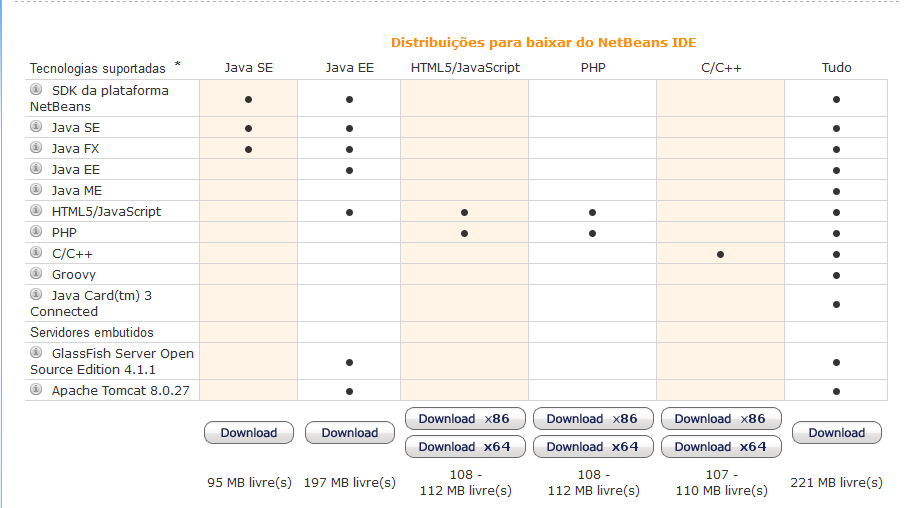
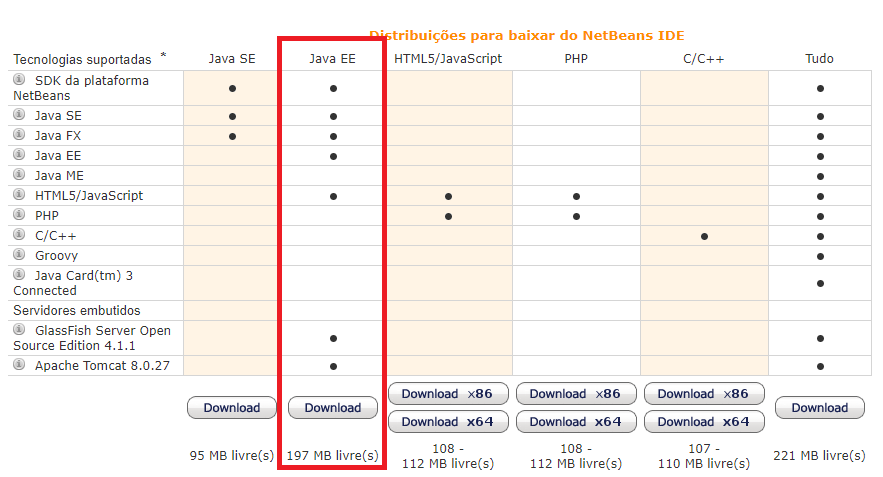
iniciando tutorial de instalacao e configuracao

Changed region(s): [[0.0, 0.0587, 0.9785, 0.9979]]

diff --git a/tutorial/README.md b/tutorial/README.md
@@ -1,0 +1,62 @@
+# Para Dhara
+https://commonmark.org/help/
+
+# Instalação das ferramentas
+
+### Instalando o JDK
+
+1. Acesse a [página de dowloads do JDK](http://www.oracle.com/technetwork/pt/java/javase/downloads/jdk8-downloads-2133151.html)
+1. Encontre a versão **Java SE Development Kit 8u181**
+1. Leia e aceite os termos de uso
+1. Faça o download do JDK de acordo com seu sistema operacional
+    ![download](img/jdkdownload.png)
+1. Ao terminar o download, execute o arquivo baixado
+1. No instalador, clique em __Próximo (next)__ até finalizar a instalação. Leia os termos e aceite caso apareça algum
+1. Faça agora a instalação do NetBeans
+
+### Instalando o NetBeans
+
+1. Acesse a [página de donwloads do NetBeans](https://netbeans.org/downloads/)
+1. Faça o donwload da versão Java EE
+    ![Donwload Java EE](img/download.png)
+1. Ao terminar o download, execute o arquivo baixado
+1. No instalador, marque a opção de servidor **Apache Tomcat 8.0.27** e desmarque a outra. Clique em __Próximo (next)__
+1. Leia e aceite os termos de uso
+1. Aceite a pasta padrão de instalação do NetBeans e **verifique se o caminho do JDK
+está correto**, caso contrário, especifique-o. Clique em __Próximo (next)__ até finalizar a instalação
+    ![Caminho de instalação do JDK](img/jdkpath.png)
+1. Ao fim, clique em __Finalizar (Finish)__
+
+### Instalação do PostgreSQL
+
+1. Acesse a [página de dowloads do PostgreSQL](https://www.enterprisedb.com/downloads/postgres-postgresql-downloads)
+1. Selecione a **versão 9.5.14** e seu sistema operacional, de acordo com a imagem abaixo
+    ![Download PostgreSQL](img/postgresinstall.png)
+1. Ao terminar o download, execute o arquivo baixado
+1. No instalador, clique em __Próximo (next)__ até chegar em **Password**
+1. Insira a senha **admin** que será utilizado no **PostgreSQL** e clique em __Próximo (next)__
+    ![Donwload Java EE](img/pswpostgres.png)
+
+    **Obs.: GUARDE E MEMORIZE A SENHA pois será requisitada diversas vezes ao longo do curso.**
+1. Na próxima etapa (Port), deixe a **porta padrão 5423** e clique em __Próximo (next)__
+1. Na próxima etapa (Advanced Options), selecione o __Locale__  para **Portuguese, Brazil**
+![Locale PostgreSQL](img/localepg.png)
+1. Clique em __Próximo (next)__ até iniciar a instalação e aguarde.
+1. Ao completar a instalação **desmarque a opção Launch Stack Builder at exit**
+1. Por fim, clique em __Finalizar (Finish)__
+
+# Configurando o PostgreSQL
+
+1. Ao instalar o PostgreSQL, o SGBD **pgAdmin III** é instalado também. Encontre o programa no menu iniciar e execute-o.
+1. Ao abrir o programa, clique em **Add a connection to a server**, como na imagem abaixo:
+    ![PostgreSQL](img/pgstartscreen.png)
+1. Ao abrir a janela __New server registration__, insira as informações abaixo e clique em OK:
+    ![New Server](img/newserver.png)
+
+    **Obs.: A senha inserida deve ser a mesma da instalação.**
+1. Caso aparece algum termo, leia-o e aceite-o.
+1. Ao terminar a criação de um novo servidor, este deverá estar listado como
+na imagem abaixo:
+    ![PostgreSQL](img/pgservercreated.png)
+
+# Iniciando o primeiro projeto

diff --git a/README.md b/README.md
@@ -1,0 +1,25 @@
+# Arquivos do minicurso Banco de Dados e WebDev
+
+## Navegando pelo repositório
+
+A pasta `tutorial` contém os passos para instalação e __setup__ para iniciar o curso.
+
+A pasta `projeto` contém os arquivos do projeto desenvolvido durante o minicurso. A qualquer momento, você poderá fazer o __download__ do projeto e desta forma, ficar atualizado.
+
+## Sobre o projeto
+
+#### ?? Tema ??
+
+O tema do minicurso é uma __web application__ envolvendo a criação de um sistema de **??teleconsulta??** entre o Hospital de Clínicas de Uberlândia e uma clínica pequena de consultas gerais, em um cidade remota.
+
+#### Requisitos
+
+É requisito para o minicurso um conhecimento básico de programação. O conhecimento em programação orientada a objetos te deixará mais confortável.
+
+#### Ferramentas
+
+Durante o projeto, serão utilizadas diversas ferramentas para construção do banco de dados e sistema.
+
+###### Linguagem de programação e ferramentas
+
+O projeto utiliza a linguagem de programação **Java** para construção do `backend` em conjunto com as ferramentas **Servlets** e **JSP**. No `frontend`, projeto utiliza as ferramentas **HTML**, **CSS** (com framework **Bootstrap 3.7**), e a linguagem **JavaScript**. O banco de dados utilizado é o **PostgreSQL**. O passo a passo de instalação do destas ferramentas se encontra no arquivo `projeto/README.md`
